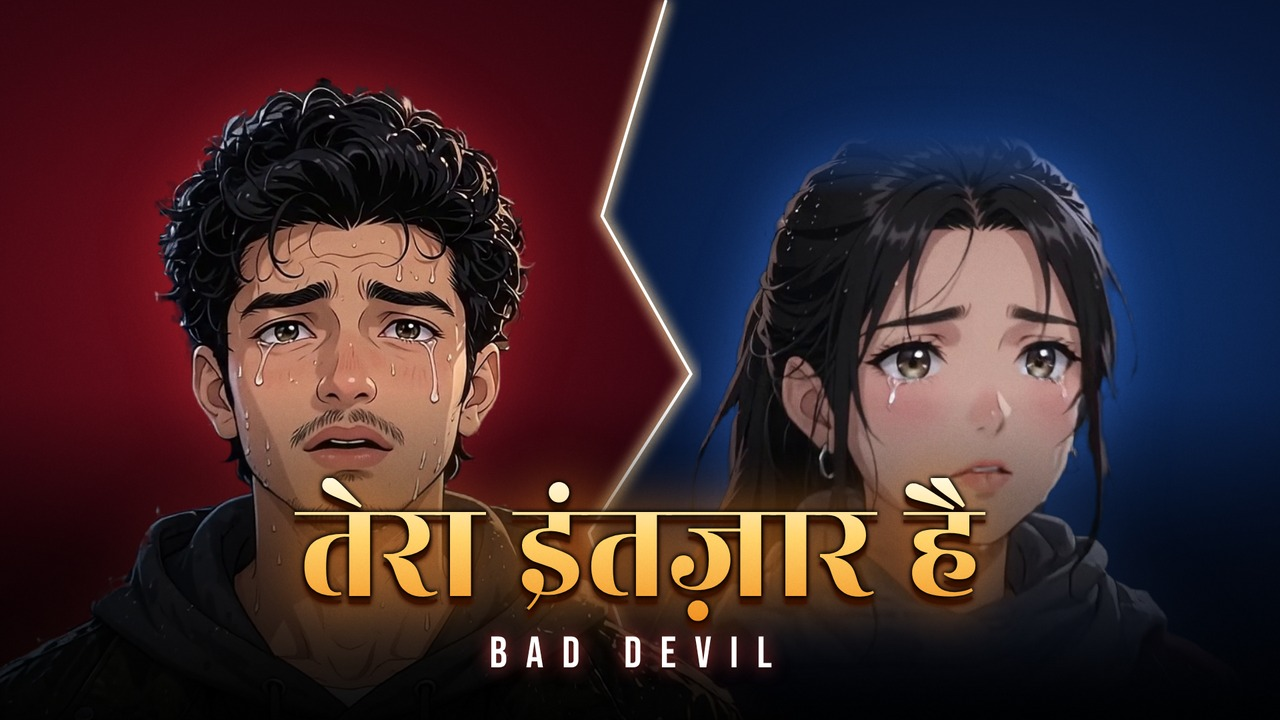
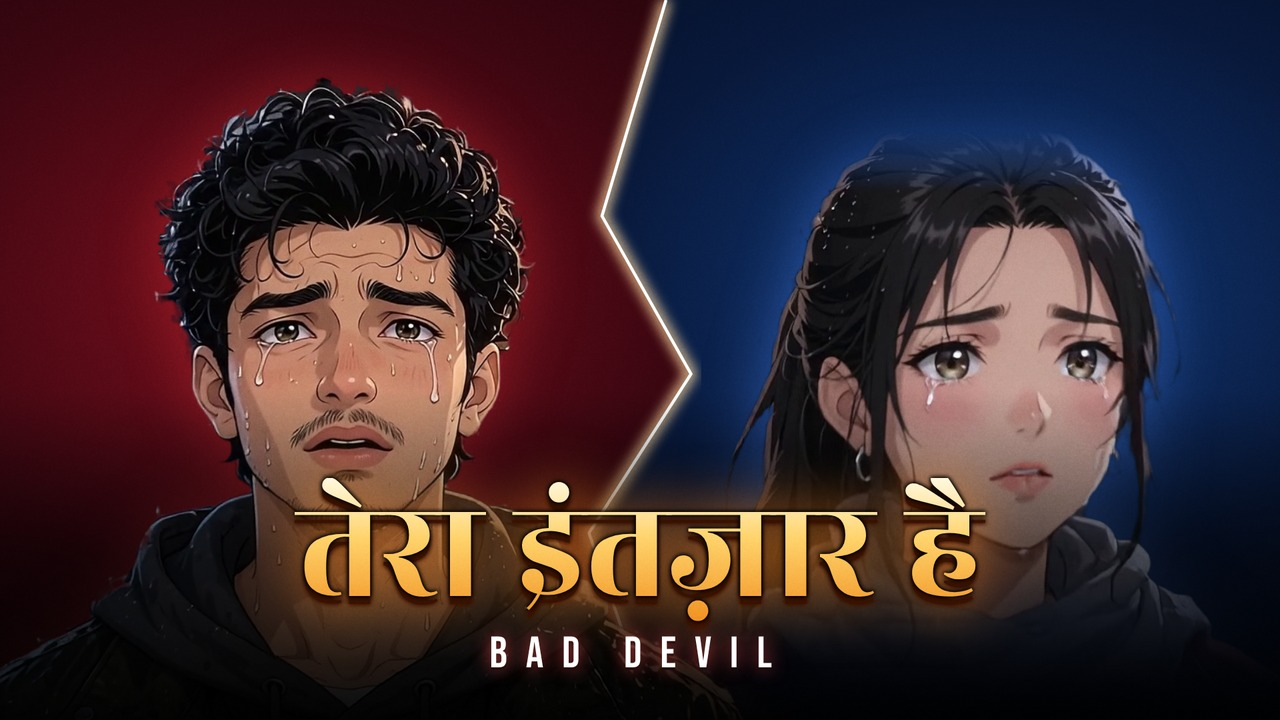
Nudge girl right and scale up in Toota Dil alt thumbnail
Claude-Session: https://claude.ai/code/session_017dD9umPcrcPTaToqqfxVzK

Changed region(s): [[0.5312, 0.2139, 0.9375, 0.8556]]

diff --git a/video-demo/thumbnails/v2/source/d1a.html b/video-demo/thumbnails/v2/source/d1a.html
@@ -11,7 +11,7 @@ svg { position:absolute; inset:0; }
 .singer { left:0; width:100%; bottom: 40px; text-align:center; font-size: 44px; color:#fff; text-shadow: 0 0 18px rgba(255,80,80,.8), 0 3px 0 #000; }
 .gpanel { position:absolute; inset:0; clip-path: polygon(52% 0,100% 0,100% 100%,51% 100%,46% 74%,54% 52%,47% 30%); }
 .gglow { position:absolute; inset:0; filter: drop-shadow(0 0 30px rgba(80,140,255,.45)); }
-.girl { position:absolute; height: 810px; left: 536px; top: 135px; -webkit-mask-image: linear-gradient(to bottom, transparent 0, #000 60px, #000 440px, transparent 560px); }
+.girl { position:absolute; height: 826px; left: 567px; top: 131px; -webkit-mask-image: linear-gradient(to bottom, transparent 0, #000 60px, #000 440px, transparent 560px); }
 </style></head><body><div class="stage">
 <div class="L"></div><div class="R"></div>
 <svg viewBox="0 0 1280 720"><defs><filter id="g"><feGaussianBlur stdDeviation="6"/></filter></defs>
